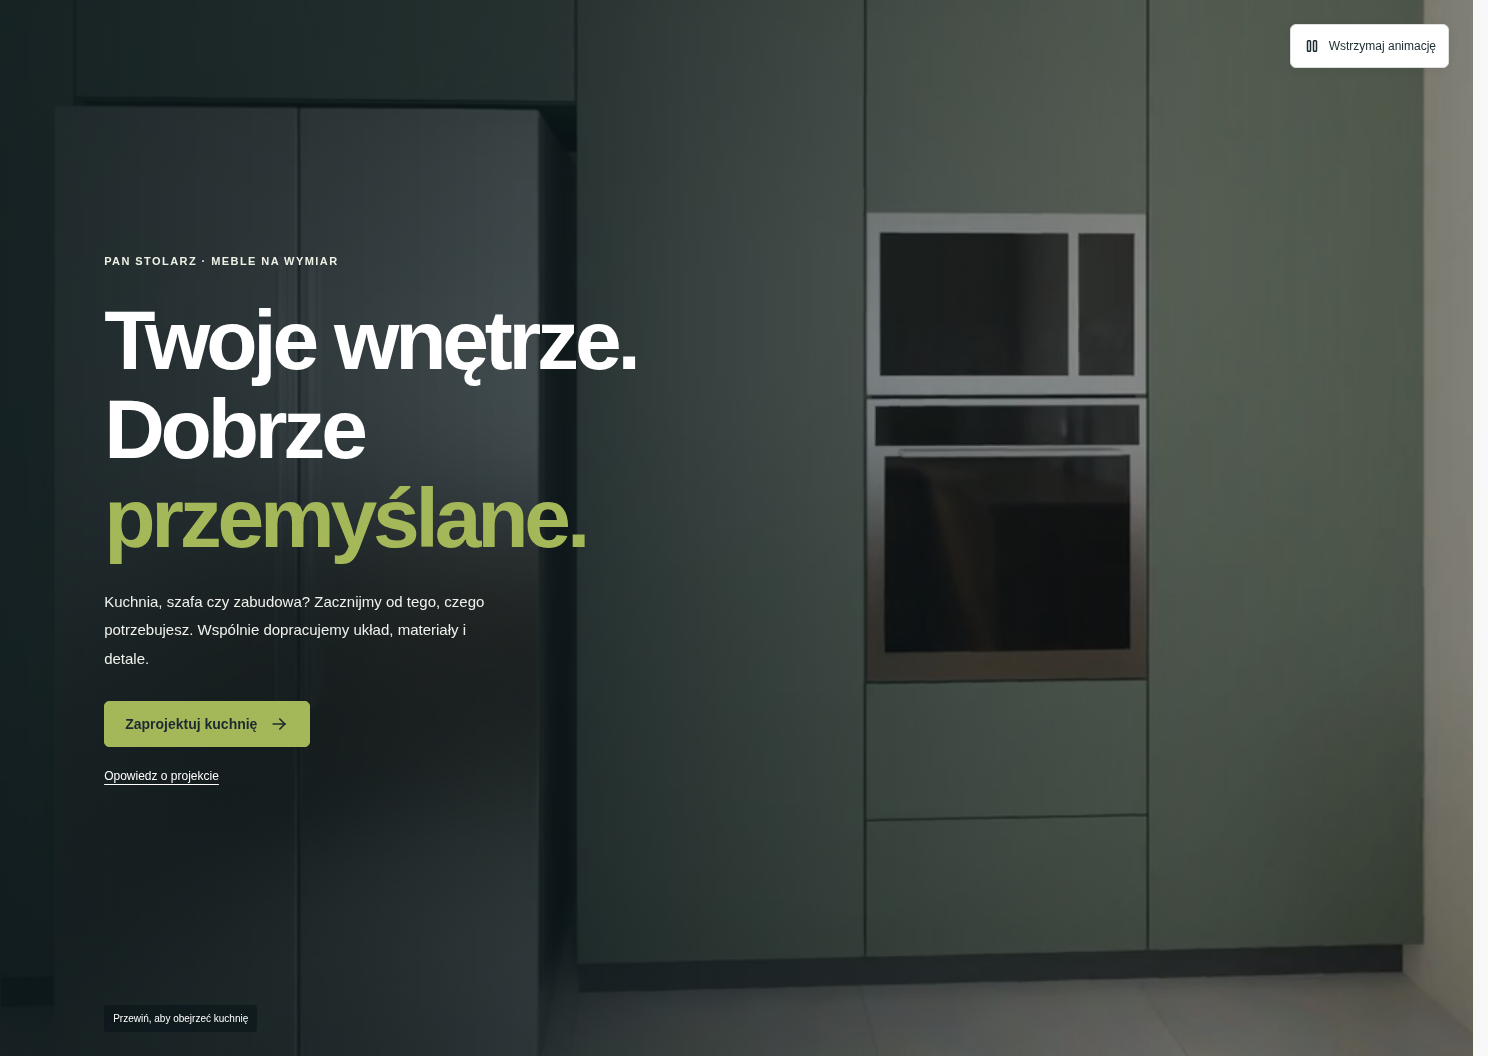
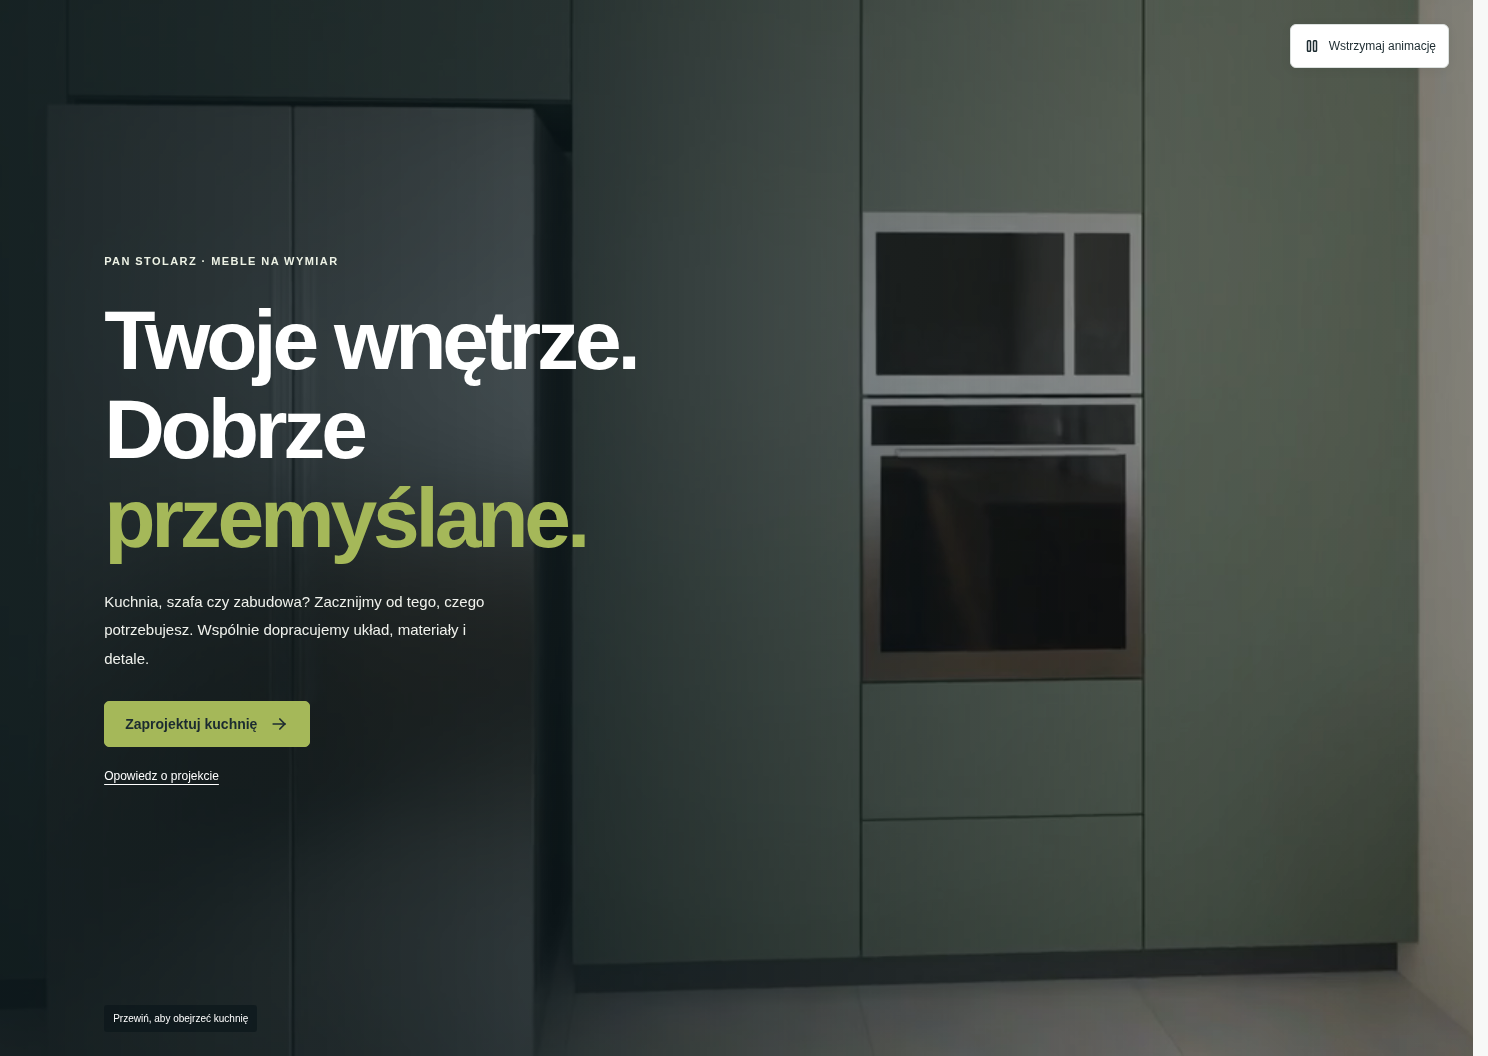
Slow kitchen scroll animation and damp camera movement

diff --git a/web/src/v2/HomeIntro.tsx b/web/src/v2/HomeIntro.tsx
@@ -1,5 +1,6 @@
 import { useEffect, useRef, useState, type ReactNode } from "react";
 import { IconPlayerPause, IconPlayerPlay } from "@tabler/icons-react";
+import { advanceMovieTime } from "./home-motion";
 
 type DataConnection = EventTarget & { saveData?: boolean };
 const connection = () =>
@@ -11,6 +12,8 @@ const restrictedMotion = () =>
 /** The document scroll owns the timeline. The original animation has no audio. */
 export function HomeIntro({ children }: { children: ReactNode }) {
   const section = useRef<HTMLElement>(null);
+  const movieTime = useRef(0);
+  const copyProgress = useRef(0);
   const video = useRef<HTMLVideoElement>(null);
   const [restricted, setRestricted] = useState(restrictedMotion);
   const [optIn, setOptIn] = useState(false);
@@ -53,7 +56,8 @@ export function HomeIntro({ children }: { children: ReactNode }) {
     const film = video.current;
     if (!motion || !el) return;
     let raf = 0;
-    let target = 0;
+    let target = movieTime.current;
+    let previousFrame = 0;
     const seek = () => {
       if (
         paused ||
@@ -64,19 +68,38 @@ export function HomeIntro({ children }: { children: ReactNode }) {
         !Number.isFinite(film.duration)
       )
         return;
-      if (Math.abs(film.currentTime - target) > 0.045)
+      if (Math.abs(film.currentTime - target) > 0.025)
         film.currentTime = target;
     };
-    const update = () => {
+    const update = (now: number) => {
       raf = 0;
       if (document.hidden) return;
       const rect = el.getBoundingClientRect();
       if (rect.bottom < 0 || rect.top > innerHeight) return;
       const range = Math.max(1, el.offsetHeight - innerHeight);
       const progress = Math.max(0, Math.min(1, -rect.top / range));
-      el.style.setProperty("--intro-progress", progress.toFixed(4));
-      target = progress * Math.max(0, (film?.duration || 0) - 0.04);
-      seek();
+      const elapsed = previousFrame
+        ? Math.min((now - previousFrame) / 1000, 0.064)
+        : 1 / 60;
+      previousFrame = now;
+      const textDelta = progress - copyProgress.current;
+      copyProgress.current =
+        Math.abs(textDelta) < 0.0008
+          ? progress
+          : copyProgress.current + textDelta * (1 - Math.exp(-elapsed / 0.22));
+      el.style.setProperty("--intro-progress", copyProgress.current.toFixed(4));
+      const goal = progress * Math.max(0, (film?.duration || 0) - 0.04);
+      const canSeek = !paused && film && film.readyState >= 1;
+      if (canSeek) {
+        movieTime.current = advanceMovieTime(movieTime.current, goal, elapsed);
+        target = movieTime.current;
+        seek();
+      }
+      if (
+        Math.abs(progress - copyProgress.current) > 0.0008 ||
+        (canSeek && Math.abs(goal - movieTime.current) > 0.025)
+      )
+        schedule();
     };
     const schedule = () => {
       if (!raf) raf = requestAnimationFrame(update);
@@ -84,7 +107,12 @@ export function HomeIntro({ children }: { children: ReactNode }) {
     window.addEventListener("scroll", schedule, { passive: true });
     window.addEventListener("resize", schedule);
     document.addEventListener("visibilitychange", schedule);
-    film?.addEventListener("loadedmetadata", schedule);
+    const loaded = () => {
+      movieTime.current = film?.currentTime ?? 0;
+      target = movieTime.current;
+      schedule();
+    };
+    film?.addEventListener("loadedmetadata", loaded);
     film?.addEventListener("seeked", seek);
     schedule();
     return () => {
@@ -92,7 +120,7 @@ export function HomeIntro({ children }: { children: ReactNode }) {
       window.removeEventListener("scroll", schedule);
       window.removeEventListener("resize", schedule);
       document.removeEventListener("visibilitychange", schedule);
-      film?.removeEventListener("loadedmetadata", schedule);
+      film?.removeEventListener("loadedmetadata", loaded);
       film?.removeEventListener("seeked", seek);
     };
   }, [motion, paused, nearby]);

diff --git a/tests/v2/home-animation.spec.ts b/tests/v2/home-animation.spec.ts
@@ -149,3 +149,38 @@ test("hero copy reveals with scroll while actions remain available", async ({
     .focus();
   await expect.poll(opacity).toBe(1);
 });
+
+test("large scroll input is damped instead of jumping through the kitchen", async ({
+  page,
+}) => {
+  await page.goto("/#/");
+  await expect
+    .poll(
+      () =>
+        page
+          .locator(".ps-intro-film video")
+          .evaluate((v: HTMLVideoElement) => v.readyState),
+      { timeout: 15000 },
+    )
+    .toBeGreaterThanOrEqual(2);
+  const range = await page
+    .locator(".ps-home-intro")
+    .evaluate(
+      (el) => (el.getBoundingClientRect().height - innerHeight) / innerHeight,
+    );
+  expect(range).toBeCloseTo(2.6, 1);
+  const immediate = await page.evaluate(async () => {
+    const el = document.querySelector<HTMLElement>(".ps-home-intro")!;
+    scrollTo(0, el.offsetTop + (el.offsetHeight - innerHeight) * 0.85);
+    await new Promise<void>((resolve) =>
+      requestAnimationFrame(() =>
+        requestAnimationFrame(() => requestAnimationFrame(() => resolve())),
+      ),
+    );
+    return document.querySelector("video")!.currentTime;
+  });
+  expect(immediate).toBeLessThan(1.2);
+  await expect.poll(() => time(page), { timeout: 7000 }).toBeGreaterThan(10);
+  await scrollProgress(page, 0.15);
+  await expect.poll(() => time(page), { timeout: 7000 }).toBeLessThan(3);
+});

diff --git a/web/src/v2/home-motion.test.ts b/web/src/v2/home-motion.test.ts
@@ -1,0 +1,23 @@
+import { test } from "node:test";
+import assert from "node:assert/strict";
+import { advanceMovieTime } from "./home-motion";
+test("large jumps respect the camera speed bound in both directions", () => {
+  assert.ok(advanceMovieTime(0, 14, 1 / 60) <= 4 / 60);
+  assert.ok(advanceMovieTime(14, 0, 1 / 60) >= 14 - 4 / 60);
+  assert.ok(advanceMovieTime(0, 14, 5) <= 4 * 0.064);
+});
+test("normal scroll settles smoothly without overshooting or oscillating", () => {
+  let time = 0;
+  for (let i = 0; i < 120; i++) {
+    const next = advanceMovieTime(time, 0.7, 1 / 60);
+    assert.ok(next >= time && next <= 0.7);
+    time = next;
+  }
+  assert.ok(Math.abs(time - 0.7) < 0.025);
+  for (let i = 0; i < 120; i++) {
+    const next = advanceMovieTime(time, 0.2, 1 / 60);
+    assert.ok(next <= time && next >= 0.2);
+    time = next;
+  }
+  assert.ok(Math.abs(time - 0.2) < 0.025);
+});

diff --git a/web/src/v2/home-motion.ts b/web/src/v2/home-motion.ts
@@ -1,0 +1,12 @@
+/** Time-based damping makes wheel notches gentle without changing native scrolling. */
+export function advanceMovieTime(
+  current: number,
+  target: number,
+  elapsedSeconds: number,
+): number {
+  const dt = Math.max(0, Math.min(elapsedSeconds, 0.064));
+  const delta = target - current;
+  if (Math.abs(delta) < 0.025) return target;
+  const eased = delta * (1 - Math.exp(-dt / 0.28));
+  return current + Math.max(-4 * dt, Math.min(4 * dt, eased));
+}

diff --git a/web/src/v2/styles.css b/web/src/v2/styles.css
@@ -1853,7 +1853,7 @@ summary:focus-visible {
 }
 /* Kitchen Daria is the full-bleed background of the hero. */
 .ps-home-intro.has-motion {
-  height: 165svh;
+  height: 360svh;
 }
 .ps-home-intro > .ps-hero {
   position: relative;
@@ -1979,7 +1979,7 @@ summary:focus-visible {
 }
 @media (max-width: 800px) {
   .ps-home-intro.has-motion {
-    height: 135svh;
+    height: 280svh;
   }
   .ps-home-intro > .ps-hero {
     padding: 96px 24px 100px;

diff --git a/docs/ANIMACJE-STRONA-GLOWNA.md b/docs/ANIMACJE-STRONA-GLOWNA.md
@@ -36,10 +36,10 @@ Desktop i 390 px: brak przycięcia treści i poziomego przepełnienia, brak prze
 ## Przejazd kuchni: uzgodniony sposób działania
 
 - Scroll w dół przesuwa kamerę do przodu; scroll w górę cofa przejazd. To powiązanie postępu 0–1 z pozycją sekcji (scrub), nie jednorazowy start filmu po wejściu na ekran.
-- Desktop: sekcja o początkowej długości około 160 vh, kadr `position:sticky` pod nagłówkiem. Cały przejazd przebiega na odcinku od osiągnięcia górnej krawędzi sekcji do końca zakresu sticky. Dokładną długość dopasować po obejrzeniu materiału. Koniec sceny zwalnia kadr do zwykłego przewijania.
-- Telefon: krótsza scena, około 120 vh, kadr ograniczony do dostępnej wysokości; nie zasłania treści ani CTA. Ostateczną długość potwierdzić dotykowo na gotowym materiale.
+- Desktop: sekcja o początkowej długości około 360 vh, kadr `position:sticky` pod nagłówkiem. Cały przejazd przebiega na odcinku od osiągnięcia górnej krawędzi sekcji do końca zakresu sticky. Dokładną długość dopasować po obejrzeniu materiału. Koniec sceny zwalnia kadr do zwykłego przewijania.
+- Telefon: krótsza scena, około 280 vh, kadr ograniczony do dostępnej wysokości; nie zasłania treści ani CTA. Ostateczną długość potwierdzić dotykowo na gotowym materiale.
 - Nie przechwytywać wheel/touchmove, nie blokować przewijania i nie wymuszać skoków strony. Zwykłe przewijanie, przeciągnięcie suwaka oraz PageDown/Home/End mają działać. Przy wejściu w środek sekcji lub zmianie rozmiaru ekranu odtworzyć właściwy postęp.
-- Gdy użytkownik przestaje przewijać, kadr zostaje w danym miejscu. Nie dodać automatycznego dojazdu ani pętli.
+- Po zatrzymaniu scrolla kadr łagodnie dochodzi do wskazanej pozycji i zatrzymuje się; nie ma pętli ani samoczynnego odtwarzania. Zastępuje to pierwotny sztywny scrub zgodnie z feedbackiem o zbyt szybkiej i agresywnej reakcji.
 - Reduced-motion: jedna reprezentatywna klatka w normalnej sekcji, bez wydłużonego pustego obszaru sticky. Przy niedostępnym rendererze lub pliku ten sam statyczny fallback.
 - Preferowany kontrakt od Claude: komponent/scena z jawnym parametrem `progress` od 0 do 1, który ustawia kamerę deterministycznie. Obsługę scrolla prowadzi strona, aby komponent nie dodawał drugiego listenera ani własnego przejmowania przewijania.
 - Jeśli plik jest wideo: integracja wymaga sprawdzenia płynnego seekowania w Safari/iOS i Chrome/Android, odpowiednio częstych klatek kluczowych i rozsądnego bitrate. Zmiany currentTime ograniczać do jednej kolejki aktualizacji; nie wymuszać dekodowania wszystkich żądań przy szybkim scrollu. Sam zwykły MP4 z autoplay nie spełni tego wymagania. Wybór wideo lub sceny nastąpi po sprawdzeniu materiału.
@@ -50,8 +50,12 @@ Do odbioru dodać: płynny ruch w obie strony, zatrzymanie w dowolnym miejscu, s
 
 Film otwiera stronę w `v2/HomeIntro.tsx`, wywołanym przez Landing. Film wypełnia tło całego hero przez responsywne kadrowanie cover; tekst i CTA pozostają HTML nad przyciemnieniem. Kopia do strony: `web/public/animations/kuchnia-darii.mp4`, H.264 1280×720, 14 s, 2 577 076 B zamiast 8 138 389 B. Kluczowe klatki co 6 klatek dla seekowania. Poster z pierwszej klatki: `kuchnia-darii-poster.jpg` (około 66 KB). Oryginał jest załącznikiem użytkownika, nie dodawano jego cięższej kopii do publicznych zasobów.
 
-Ta animacja jest sterowana scrollem już w pierwszym ekranie: zakres 165 svh na desktopie i 135 svh na telefonie, przyklejona treść hero. Ruch jest dwukierunkowy, bez autoplay i bez przechwytywania scrolla. Widoczny przycisk pozwala wstrzymać i wznowić powiązanie z przewijaniem. Reduced-motion/oszczędzanie danych pokazują poster, z jawnym opt-in do animacji; błąd filmu zachowuje poster i normalną wysokość sekcji. Materiał jest ładowany dopiero w pobliżu sekcji. Kolejka seeków pomija nieaktualne cele, a dokument w tle nie aktualizuje klatek.
+Ta animacja jest sterowana scrollem już w pierwszym ekranie: zakres 360 svh na desktopie i 280 svh na telefonie, przyklejona treść hero. Ruch jest dwukierunkowy, bez autoplay i bez przechwytywania scrolla. Widoczny przycisk pozwala wstrzymać i wznowić powiązanie z przewijaniem. Reduced-motion/oszczędzanie danych pokazują poster, z jawnym opt-in do animacji; błąd filmu zachowuje poster i normalną wysokość sekcji. Materiał jest ładowany dopiero w pobliżu sekcji. Kolejka seeków pomija nieaktualne cele, a dokument w tle nie aktualizuje klatek.
 
 Wcześniejsze propozycje przypisania przejazdu do miejsca B zastępuje identyfikacja użytkownika: przesłany film jest animacją otwierającą. Miejsce B pozostaje przygotowane wyłącznie w planie.
 
 Ostatnie doprecyzowanie: tekst ujawniany jest poprzez opacity i delikatne przesunięcie, zależne od tej samej wartości postępu scrolla; nie przez uruchamianie timera. Przyciski nie są wygaszane. Wsteczny scroll cofa także ujawnienie tekstu.
+
+## Uspokojenie przejazdu po feedbacku
+
+Zakres aktywnego przewijania wzrósł z 65 do 260 svh na komputerze (4×) i z 35 do 180 svh na telefonie (około 5×). HomeIntro nie przypisuje już od razu docelowego czasu filmu: helper home-motion.ts wygładza go w czasie, z limitem skoku po dużym ruchu scrolla i bez oscylacji. Nagłówek/opis również mają wygładzany postęp. Mechanizm zasypia po osiągnięciu celu, poza sekcją i w nieaktywnej karcie. Pause zatrzymuje film, a wznowienie łagodnie dochodzi do aktualnej pozycji.

diff --git a/DESIGN.md b/DESIGN.md
@@ -62,3 +62,5 @@ Układ U: trzy ściany A/B/C z niezależnymi długościami. Puste strefy narożn
 ## Animacja otwierająca
 
 Strona główna używa dostarczonego przez użytkownika filmu kuchni Darii, nie generowanej fotografii w hero. `v2/HomeIntro.tsx` jest właścicielem powiązania scrolla z czasem filmu. Film wypełnia całą powierzchnię hero jako tło (cover), z ciemną nakładką i tekstem HTML nad nim. Kadrowanie zależy od ekranu. Biała typografia i zielony akcent utrzymują czytelność. Nagłówek i opis ujawniają się ze scrollem, a CTA są zawsze widoczne. Normalny scroll i statyczne CTA są zawsze dostępne. Poster i podgląd statyczny dla reduced-motion, oszczędzania danych i awarii; widoczny przycisk pauzy/wznowienia. Brak autoplay i audio. Drugi materiał nie jest jeszcze dostępny i nie tworzy pustej sekcji. Szczegóły: docs/ANIMACJE-STRONA-GLOWNA.md.
+
+Tempo intro: zakres 360 svh desktop / 280 svh telefon. Kadr i tekst łagodnie dochodzą do postępu scrolla; bez sprężynowania, oscylacji i przechwytywania gestów. Wygładzanie czasu filmu należy do v2/home-motion.ts.

diff --git a/docs/KOORDYNACJA-Claude-Codex.md b/docs/KOORDYNACJA-Claude-Codex.md
@@ -173,3 +173,5 @@ Uściślenie użytkownika: przejazd kuchni ma być sterowany postępem scrollowa
 Film „Kuchnia-Darii-animacja.mp4” otrzymany od użytkownika: intro strony, 14 s, bez audio. Integracja: HomeIntro.tsx, pełny kadr 16:9, przewijanie steruje currentTime w obie strony, pauza i statyczny fallback. Transkodowana kopia 720p 2,5 MB + poster. Druga animacja nadal oczekuje na materiał; nie powielono Darii w drugim slocie.
 
 Doprecyzowanie hero: film Darii ma wypełniać tło całej sekcji, pod tekstem i przyciskami. Nagłówek/opis pojawiają się zgodnie z postępem scrolla; CTA są stale widoczne. Zmieniono kompozycję z bocznej karty na pełne tło cover, z ciemną nakładką i białą typografią.
+
+Korekta tempa po feedbacku: hero 360 svh desktop / 280 svh mobile, postęp filmu i tekstu wygładzany w czasie; helper home-motion.ts z limitem skoku. Nie zastępować ponownie sztywnym przypisywaniem currentTime z każdego zdarzenia scroll.
